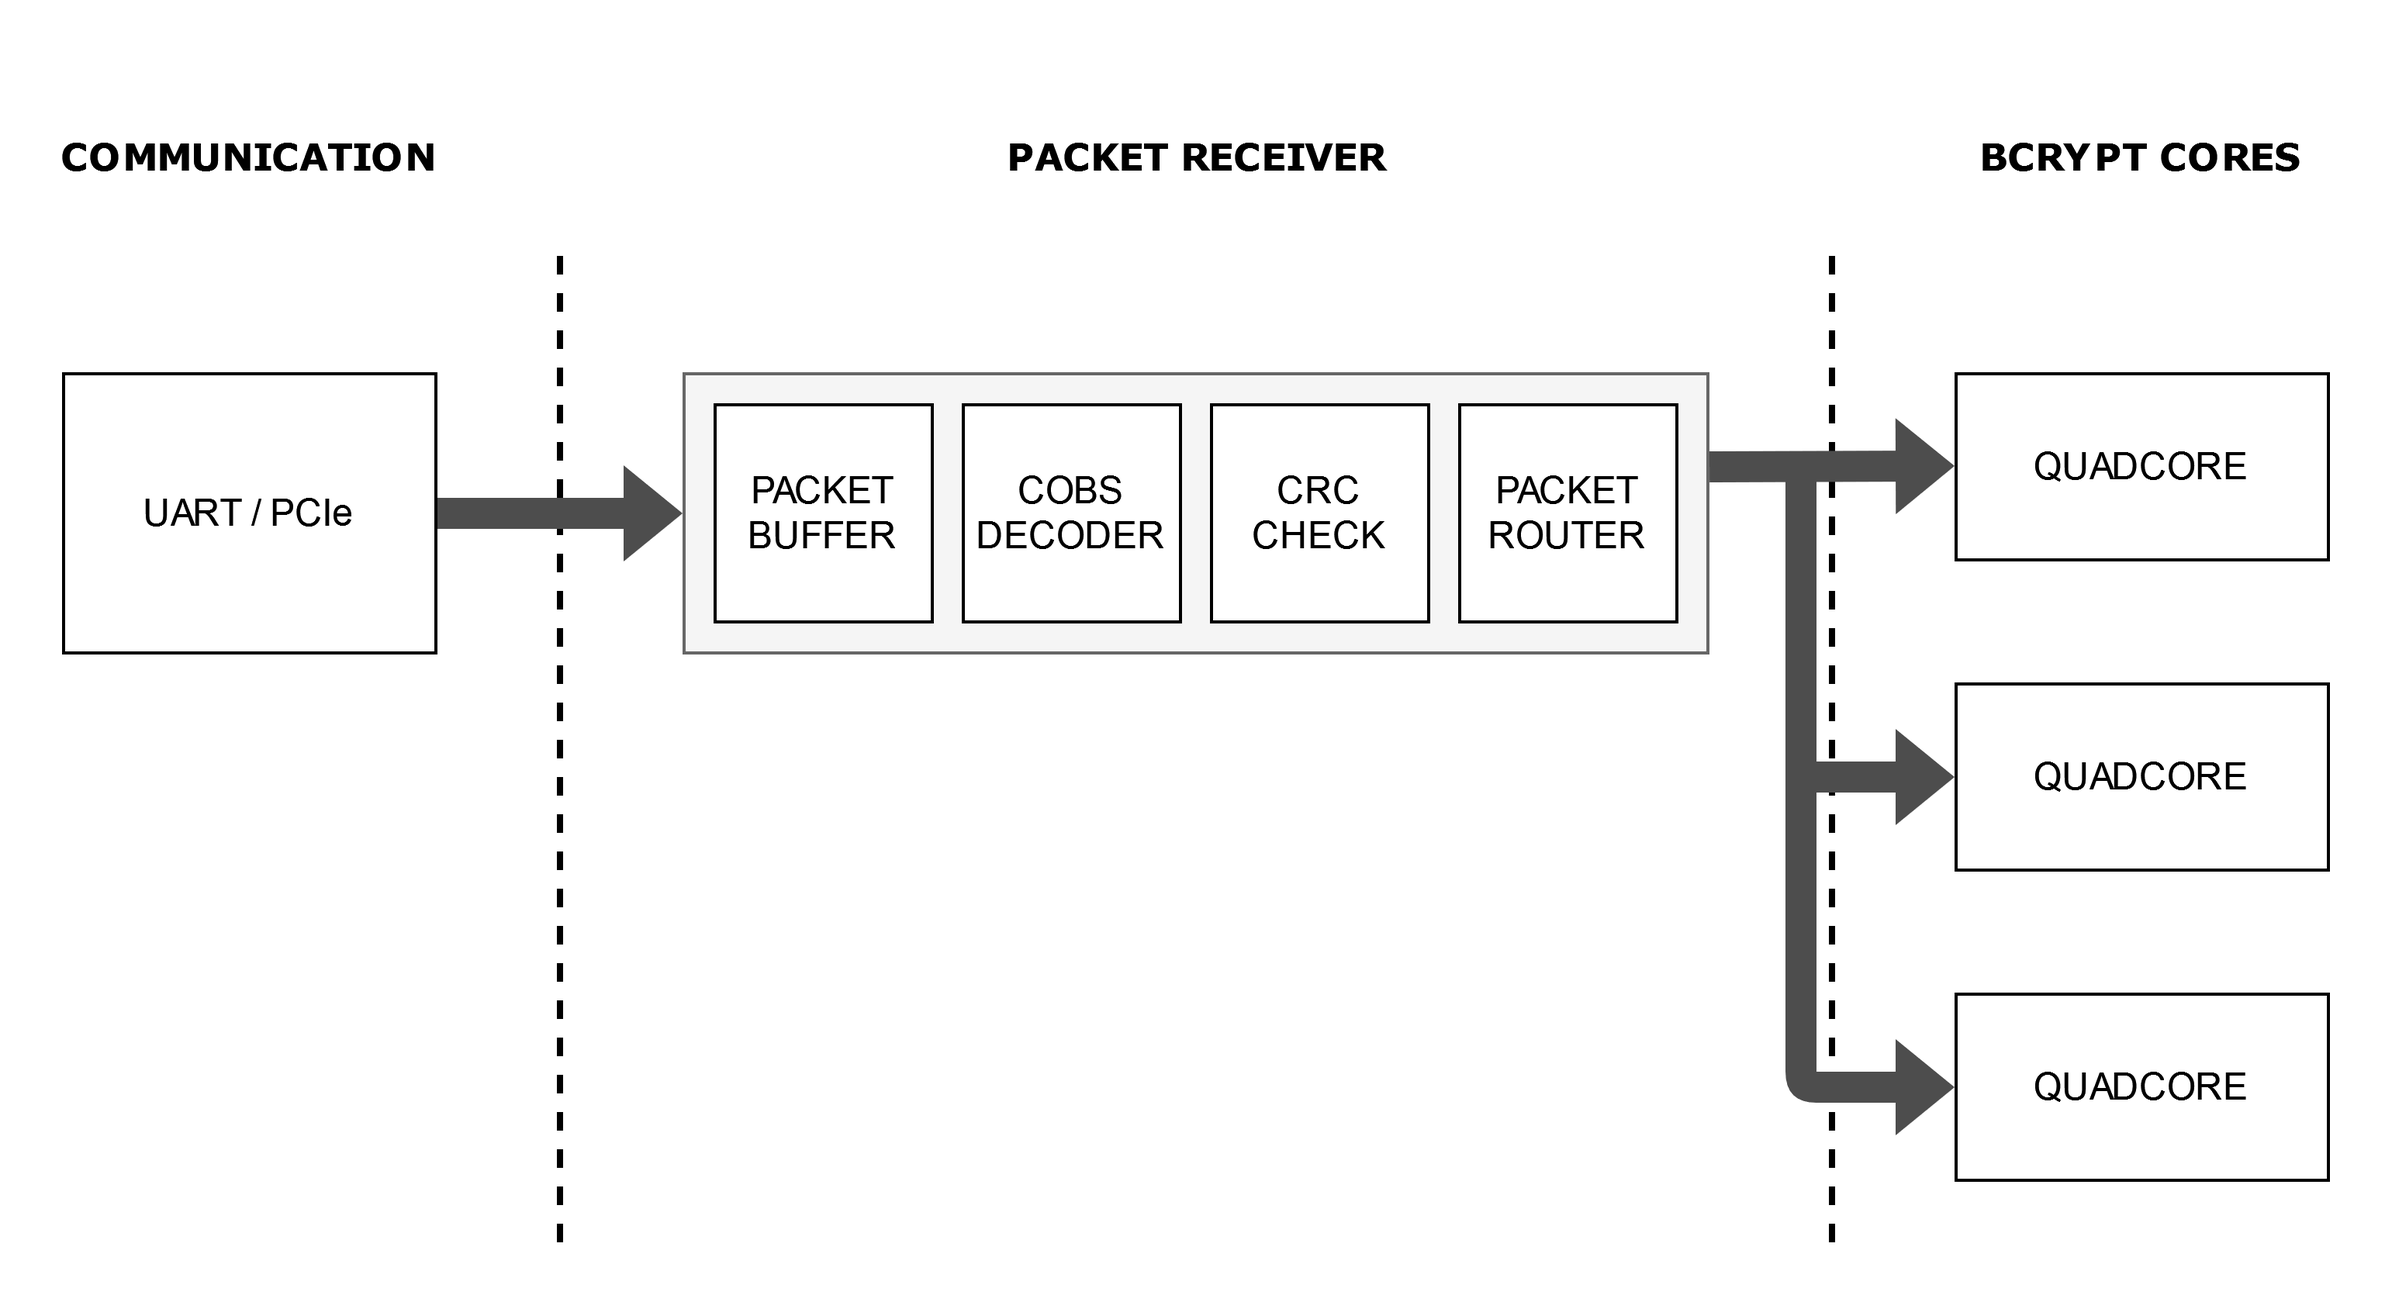
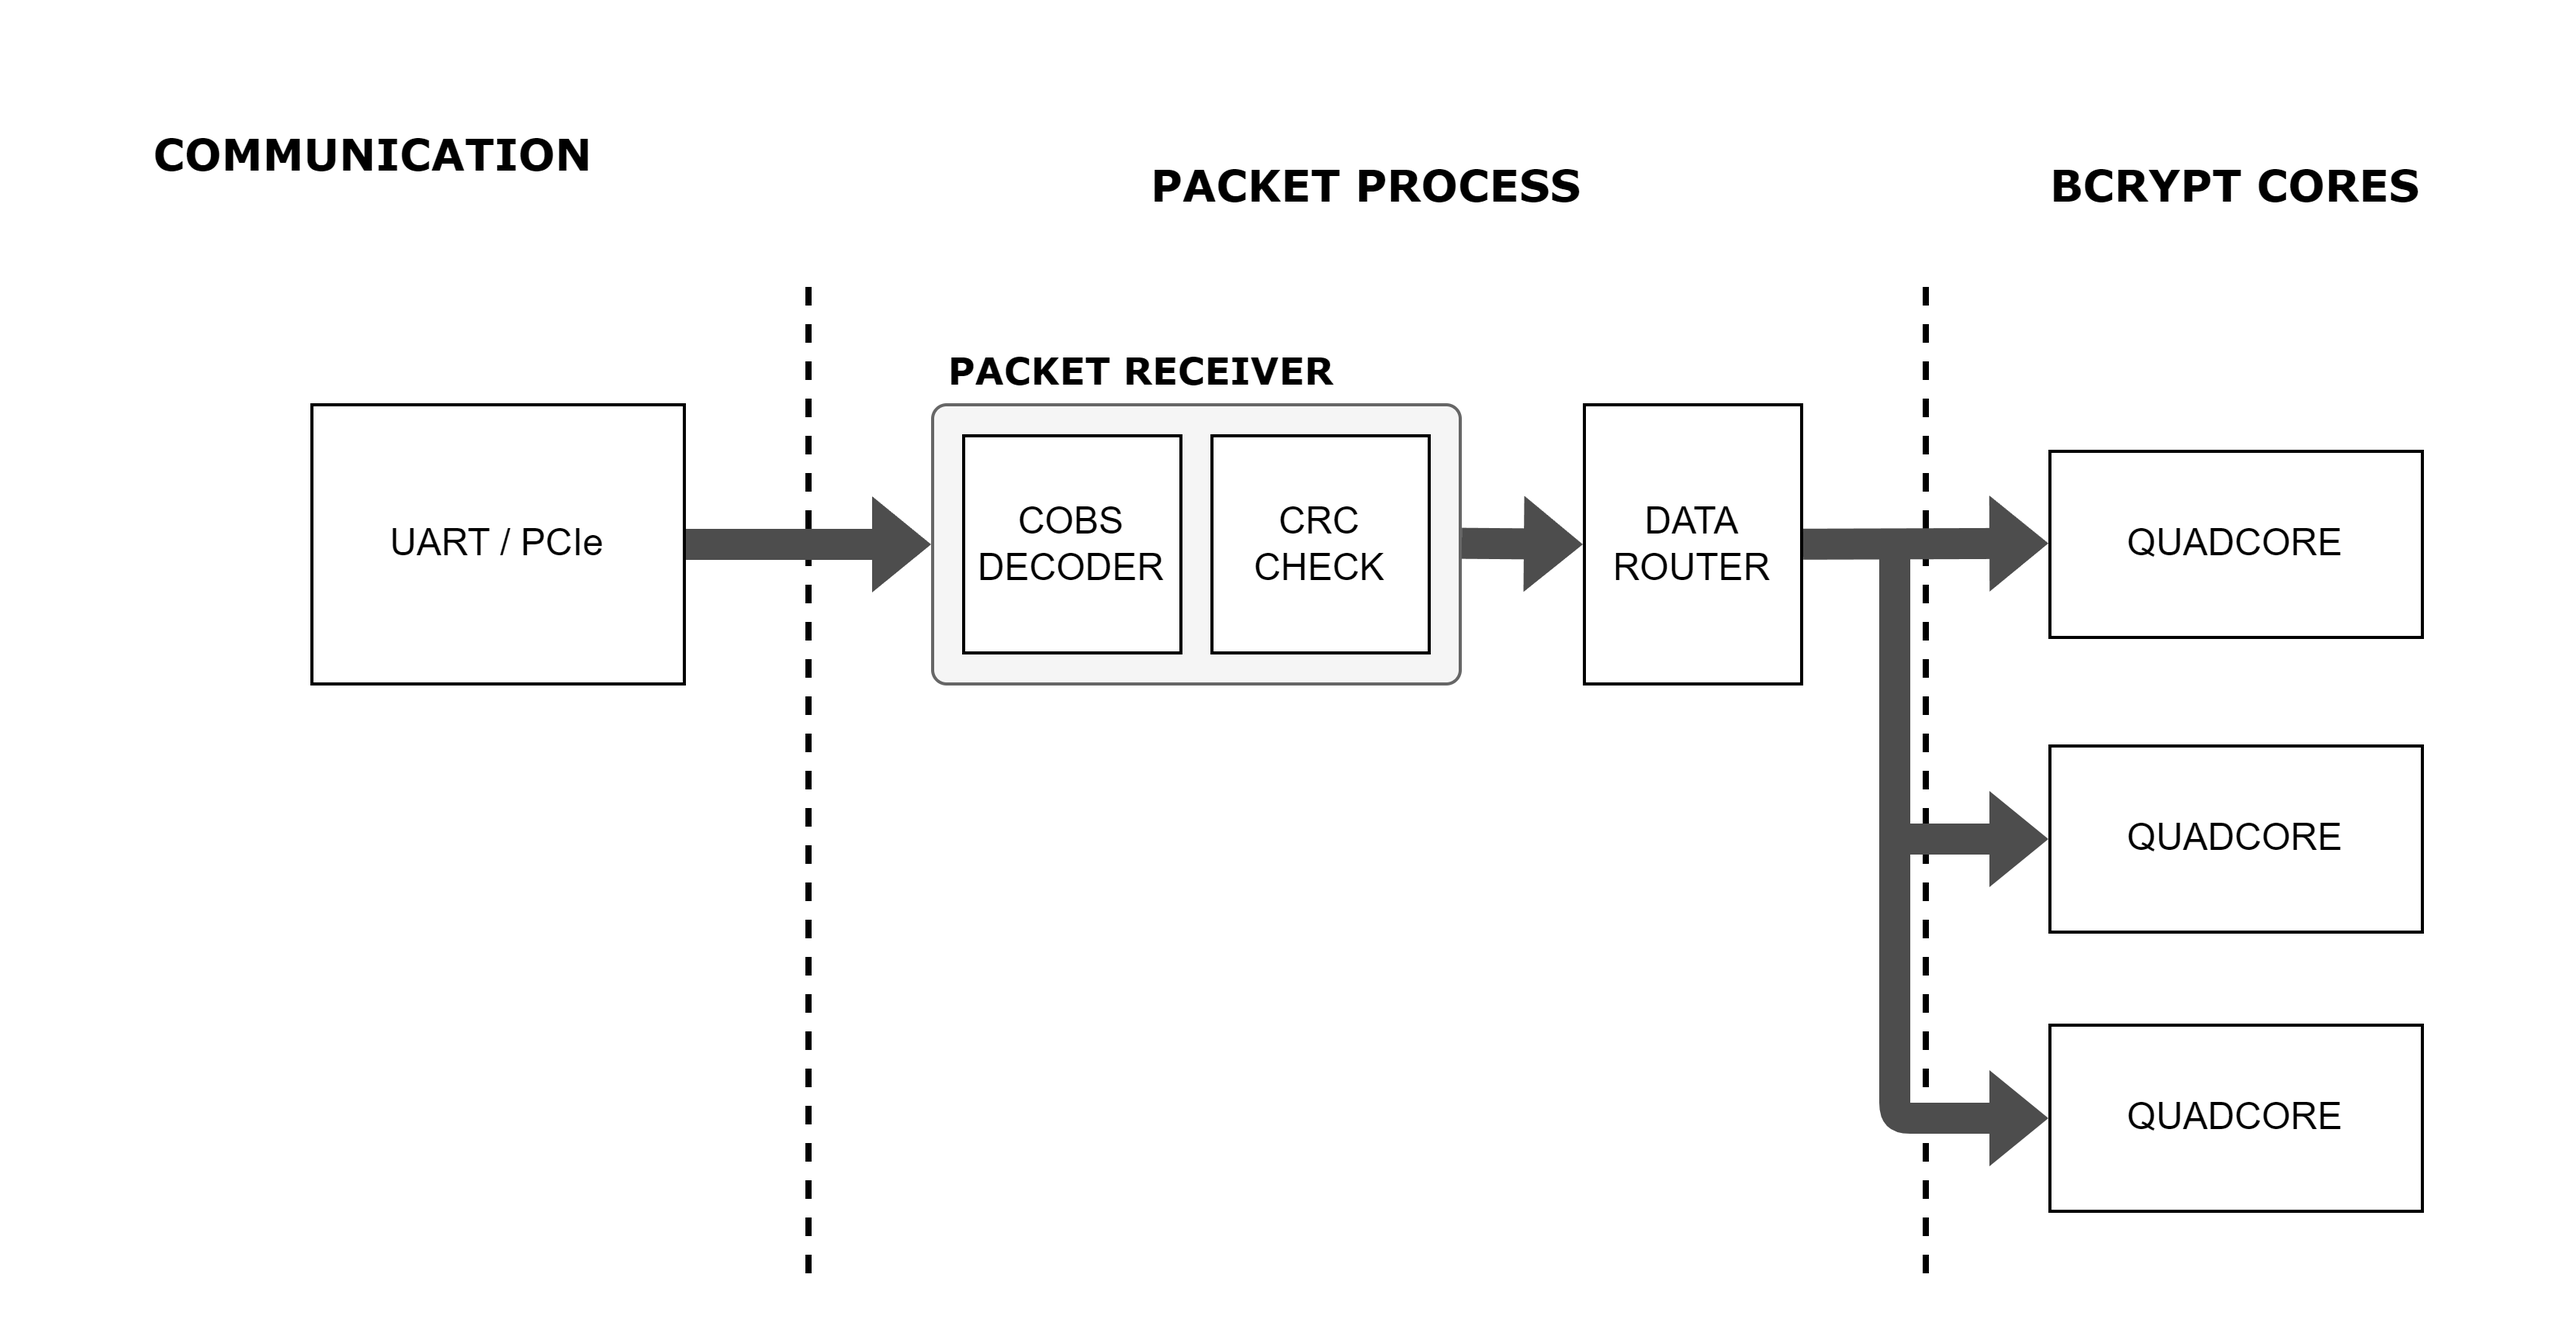
started packet receiver

diff --git a/docs/projet_bachelor/journal.md b/docs/projet_bachelor/journal.md
@@ -24,7 +24,7 @@ Il n'est pas possible d'instancier plus, non pas à cause d'un manque de ressour
 | 100        	| 5.698            	| 36             	| BRAM : 97.50, LUT : 68   	| 0.988 	| 22'180 H/s          	|
 | 200        	| 1.237            	| 36             	| BRAM : 97.50, LUT : 68   	| 0.388 	| 44'369 H/s          	|
 | 250        	| 0.43             	| 36            	| BRAM : 97.50, LUT : 68    | 0.115    	| 55'450 H/s          	|
-| 275        	| 0.294            	| -              	| -                        	| -     	| -                   	|
+| 275        	| 0.294            	| < 30            	| -                        	| -     	| < 50'820 H/s          |
 | 300        	| 0.082            	| 5              	| BRAM : 13.54, LUT : 7.87 	| 0.007 	| 9241 H/s            	|
 | 325        	| -0.153           	| 0              	| 0                        	| X     	| -                   	|
 
@@ -58,7 +58,6 @@ Hash per second: 534.544511
 
 Liste des sujets :
 - Chercher la fréquence la plus élévée avec le plus de quadcore ([voir tableau](#kintex-ultrascale))
-
 - Faire des recherches sur l'utilisation des macros pour le routage (pour définir des blocs)
 - Vérifier que le design ne soit pas optimisé dû au hash qui a été hardcodé
 - Faire des mesures pour le code C
@@ -96,7 +95,7 @@ L'idée serait de bien séparé la couche communication UART du reste, afin de p
 Afin d'avoir une communication solide, il me faut un protocole simple m'assurant que le paquet recu soit bien synchronisé.
 Pour ce faire, j'ai décidé d'encoder mes paquets avec l'algorithme COBS.
 
-Au final, je vais avoir un système de paquets, contenant un byte de start(le byte va contenir l'offset du prochain 0), un code de fonction, la longueur du payload à venir, le payload et le CRC du payload.
+Au final, je vais avoir un système de paquets, contenant un byte de start(le byte va contenir l'offset du prochain 0x00), le payload, le CRC du payload et un byte de fin (0x00).
 
 ![](assets/communication_protocol_packet_format.png)
 
@@ -104,7 +103,10 @@ Pour l'UART, je vais pouvoir mettre dans le payload toutes les informations néc
 
 ![](assets/communication_protocol.png)
 
-A la reception, on aura un buffer qui va stocker le paquet entrant.
-Pendant la récéption du paquet, on va pouvoir en même temps décodé le paquet et stocker le résultat dans un deuxième buffer qui va servir au routeur. En parralèle du décodage, le CRC va pouvoir être calculer.
+Pendant la récéption du paquet, je vais pouvoir décoder le paquet et stocker le résultat dans un buffer pour le routeur. En parralèle du décodage, le CRC va pouvoir être calculé.
 
 Si le CRC check est bon, le routeur va pouvoir distribuer les informations en fonction du paquet recu.
+
+# Semaine 3 - (27.05.2024 - 31.05.2024)
+
+Cette semaine je dois mettre en place la communication UART avec un système de paquet. Le programme doit être fait de manière modulable afin de pouvoir aisemment remplacer l'UART par le PCIe.
